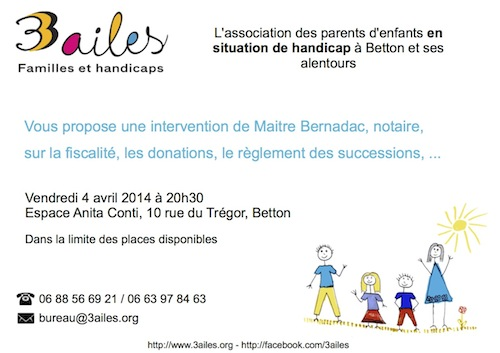
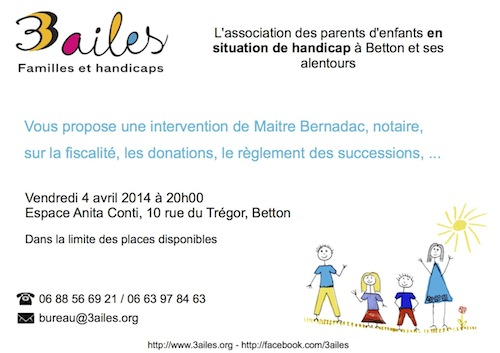
Changement d'heure pour la reunion fiscalite

diff --git a/_posts/2014-03-26-intervention-fiscalite.md b/_posts/2014-03-26-intervention-fiscalite.md
@@ -7,7 +7,9 @@ title: Intervention sur la fiscalité
 
 Nous organisons l'intervention de Maitre Bernadac, notaire, sur la fiscalité, les donations, la succession...
 
-Rendez-vous le vendredi 4 avril à 20h30, à l'espace Anita Conti.
+Rendez-vous le vendredi 4 avril à 20h00, à l'espace Anita Conti.
+
+<strong>ATTENTION: La réunion débutera bien à 20h00 au lieu de 20h30 comme initialement prévu</strong>
 
 Voici l'invitation:
 
